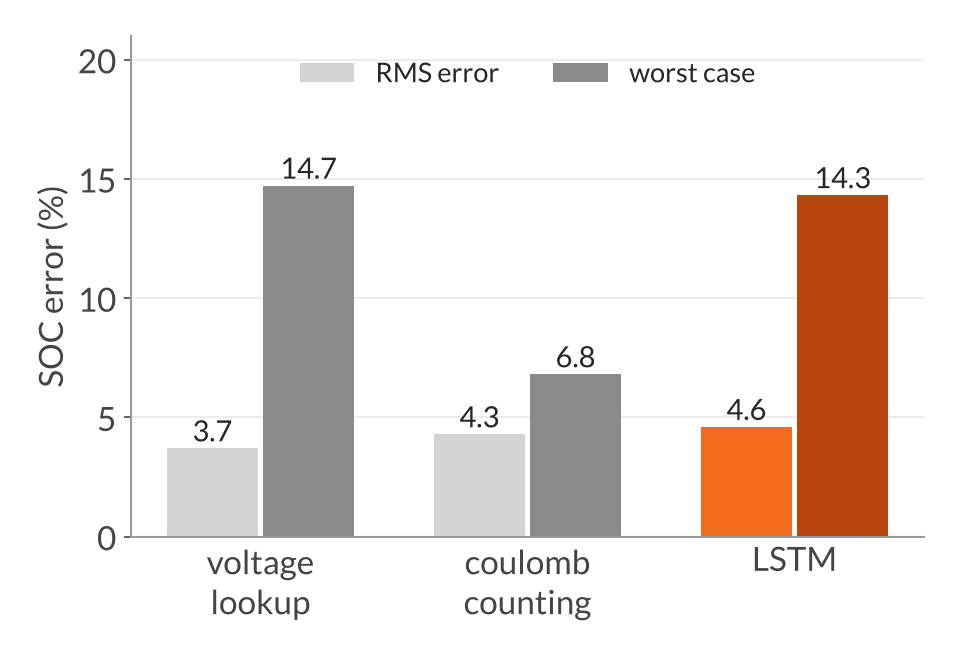
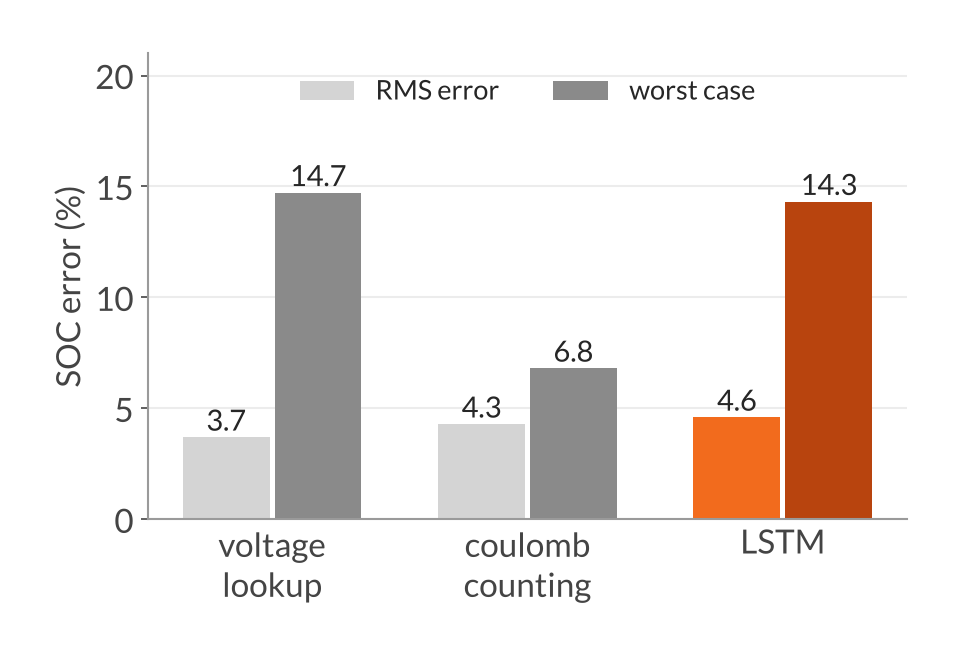
Deck figures: more margin inside chart cards

diff --git a/Pre-WSC/sasol_analysis/report/deck_figures.py b/Pre-WSC/sasol_analysis/report/deck_figures.py
@@ -30,7 +30,7 @@ plt.rcParams.update({
 
 
 def save(fig, name):
-    fig.tight_layout()
+    fig.tight_layout(pad=1.6)
     fig.savefig(OUT / name, dpi=150)
     plt.close(fig)
 
